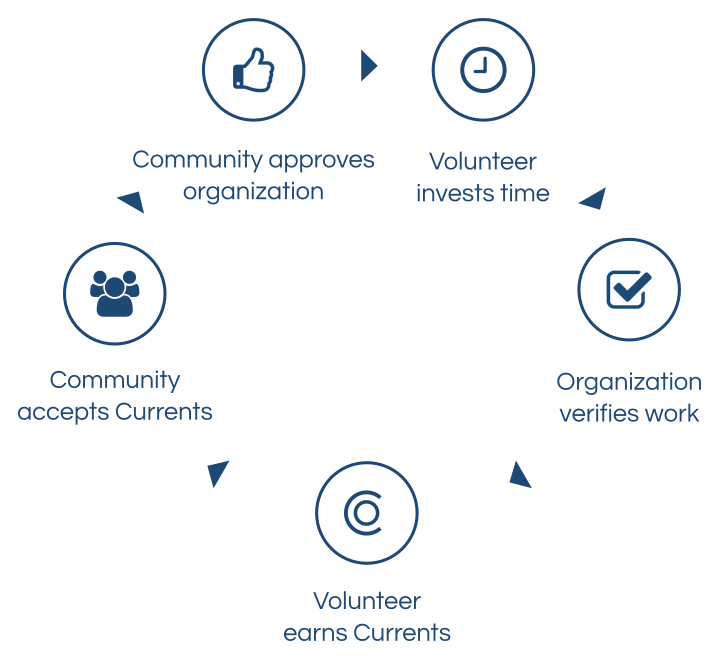
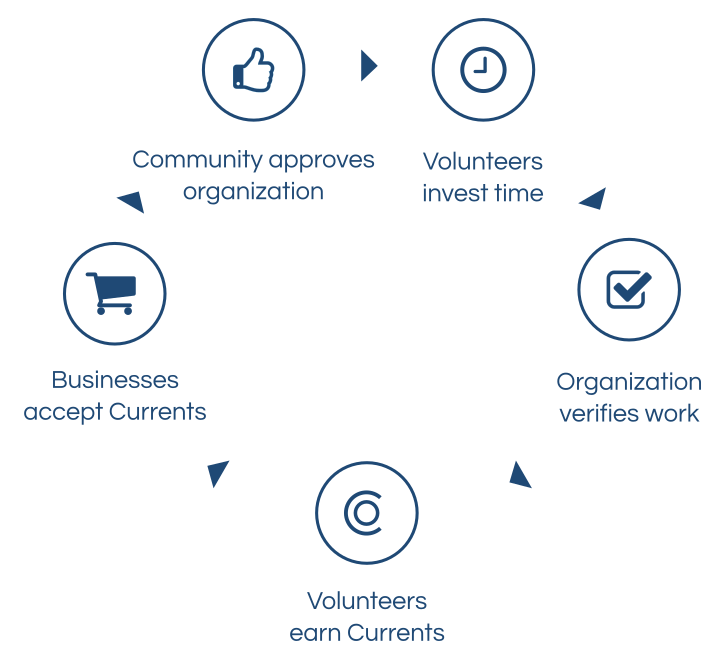
mission, diagram edits

diff --git a/openCurrents/templates/nonprofit.html b/openCurrents/templates/nonprofit.html
@@ -17,13 +17,13 @@
         <div id="1" class="header-spacer"></div>
         <div class="row center">
           <div class="medium-12 small-centered columns">
-            <h1 id="home-tagline" class="white three-halves-margin-bottom">Record and reward.</h1>
+            <h1 id="home-tagline" class="white three-halves-margin-bottom">Record and reward</h1>
           </div>
         </div>
         <div class="row center">
           <div class="medium-8 small-centered columns">
-            <h5 class="white one-margin-bottom">Track volunteer hours with ease. For each hour worked, volunteers earn 1 Current, which can be used for partial payment with participating businesses.</h5>
-            <h5 class="white">By the way, it's free.</h5>
+            <h5 class="white one-margin-bottom">Track volunteer hours with ease. For each hour worked, volunteers earn 1 Current, which they can use for partial payment with participating businesses.</h5>
+            <h5 class="white">In case you're wondering, it's free.</h5>
           </div>
         </div>
 
@@ -270,22 +270,20 @@
       var elem = new Foundation.Sticky($("#sticky-header"));
     </script>
 
-    <script type="text/javascript" src="{% static "js/history.js" %}"></script>
+    <script type="text/javascript">
+      $('#show-diagram').click(function(){
+        $(this).parent().fadeOut(777, function(){
+          $('.diagram-div').fadeIn(777);
+        });
+        var width = $(window).width();
+            var height = $(window).height();
+            $('#home').resize(width, height);
+      });
+    </script>
 
     <script type="text/javascript">
 
       $(document).ready(function(){
-
-        // var $root = $('html, body');
-        // $('a').click(function() {
-        //     var href = $.attr(this, 'href');
-        //     $root.animate({
-        //         scrollTop: $(href).offset().top
-        //     }, 1111, function () {
-        //         window.location.hash = href;
-        //     });
-        //     return false;
-        // });
 
         $('#play-intro').popup({
           vertical: 'top',

diff --git a/openCurrents/templates/home-header.html b/openCurrents/templates/home-header.html
@@ -1,14 +1,14 @@
 {% load staticfiles %}
 
 <header id="header" class="full-width row collapse js-close-any" canvas>
-  <div class="small-9 medium-3 small-offset-1 columns">
+  <div class="small-9 medium-4 small-offset-1 columns">
     <a href="#1">
 
     	<img id="header-logo" src="{% static 'img/oc-header-blue2.png' %}" />
     </a>
   </div>
 
-  <div class="hide-for-small-only one-margin-top medium-7 right columns end">
+  <div class="hide-for-small-only one-margin-top medium-6 right columns end">
     <a class="three-halves-margin-right">For nonprofits</a>
     <a class="three-halves-margin-right">For businesses</a>
     <a href="{% url 'openCurrents:login' %}">Log in</a>

diff --git a/openCurrents/templates/home.html b/openCurrents/templates/home.html
@@ -73,8 +73,8 @@
         <div id="3" class="header-spacer"></div>
 
         <div class="row center one-margin-top">
-          <div class="medium-8 small-centered columns">
-            <h3 class="white title">We are on a mission to allow anyone to give good and thrive.</h3>
+          <div class="medium-7 small-centered columns">
+            <h3 class="white title">We are on a mission to help anyone give good and live well.</h3>
           </div>
         </div>
 
